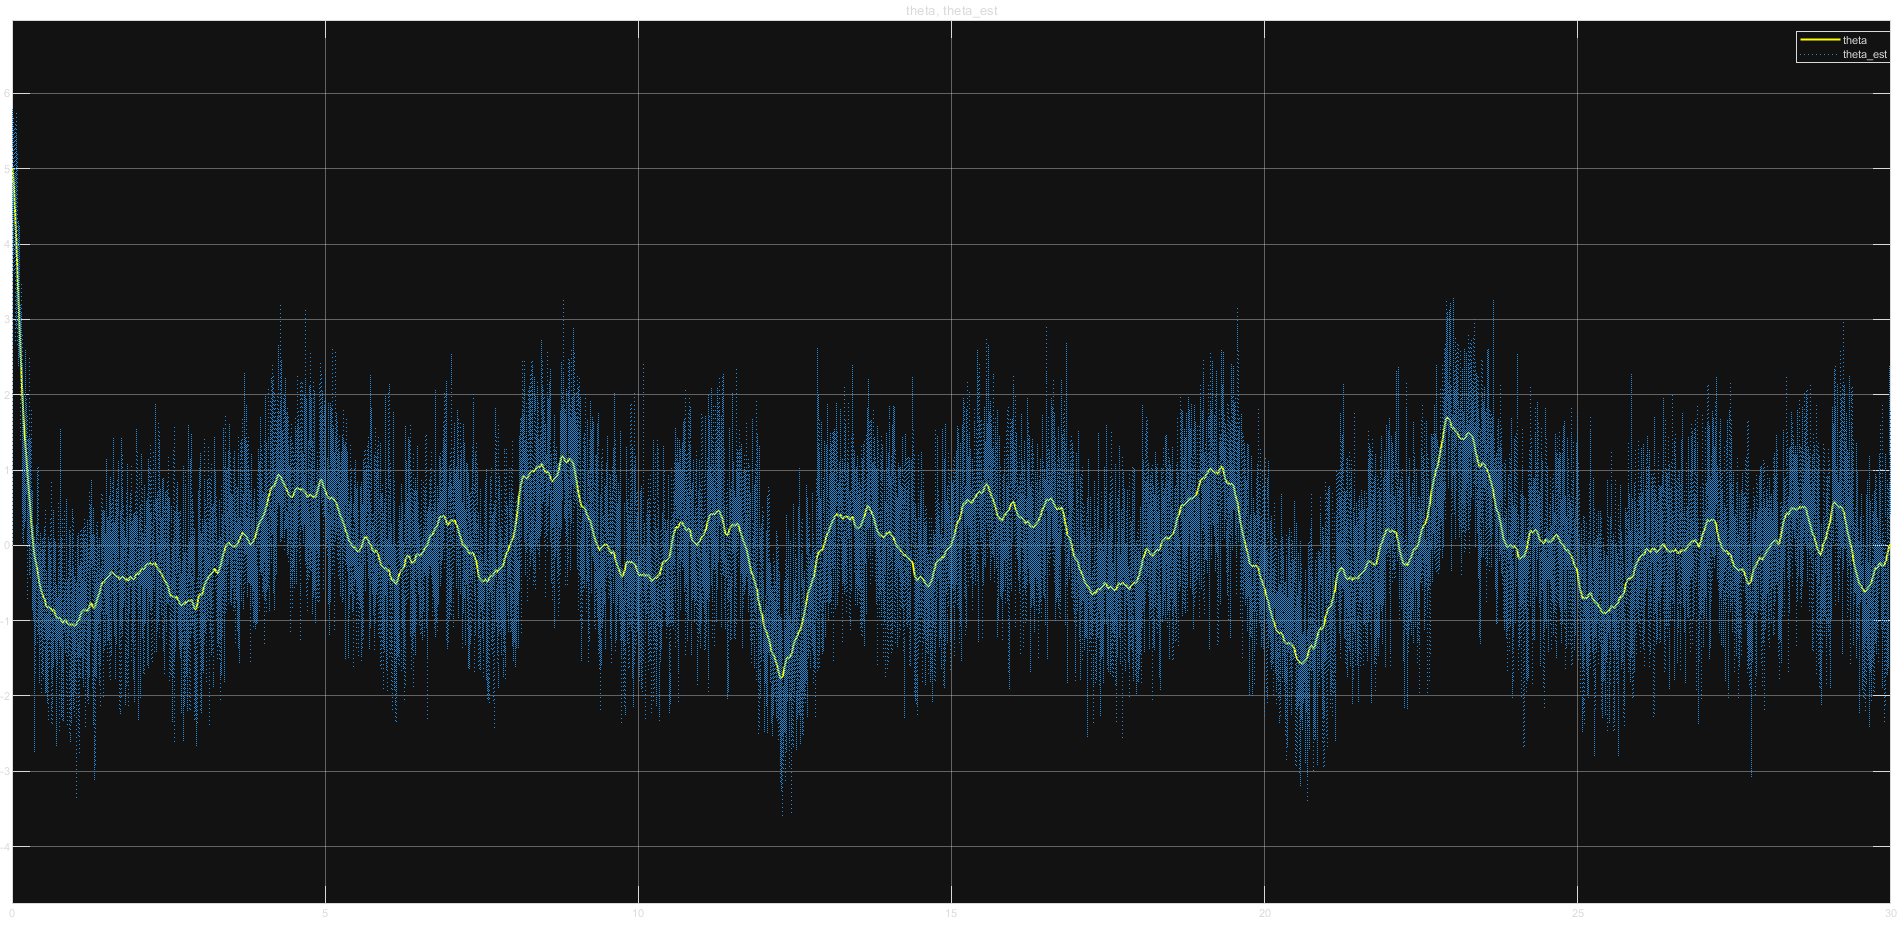
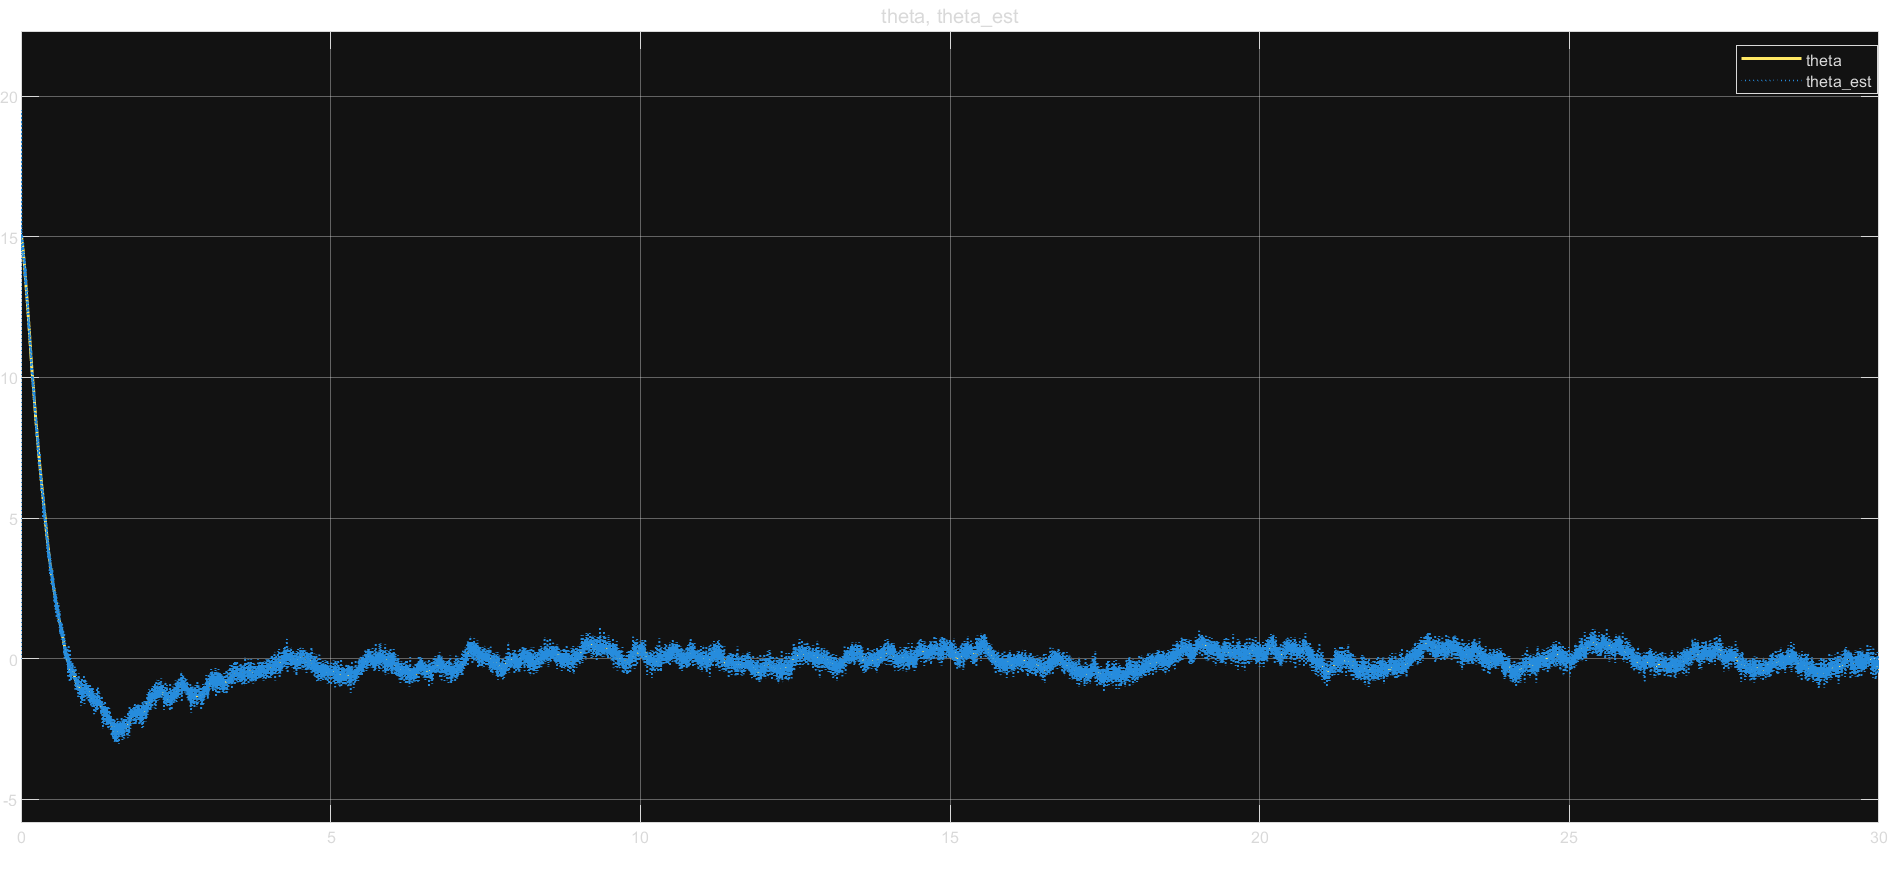
Adjust Kalman noise parameters and timestep
Increase simulation timestep from 0.0001s to 0.001s and update Kalman filter noise matrices in DisenControlKalman.m: set Q_kalman = diag([1e-2, 1000, 1e-1]) to force fast estimation of angular velocity and set R_kalman = diag([1e-5, 1e-3]) to lower measurement noise for the MPU6050. Also include updated Simulink model (Sim_ControladorLQR_Kalman.slx) and updated plot image (img/grafica_theta.png).

diff --git a/1_MIL/DisenControlKalman.m b/1_MIL/DisenControlKalman.m
@@ -67,7 +67,7 @@ fprintf('  Frecuencia dominante : %.1f rad/s\n', w_max_lc)
 fprintf('  h recomendado        : %.5f s  (%.0f Hz mínimo)\n', ...
         h_recomendado, 1/h_recomendado)
 
-h = 0.0001;   % [s] — ajustar si el warning se activa
+h = 0.001;   % [s] — ajustar si el warning se activa
 
 if h > h_recomendado
     warning(['h = %.4f s SUPERA h_recomendado = %.5f s.\n' ...
@@ -99,11 +99,14 @@ fprintf('Kd discreto: '); disp(Kd)
 mC_medido = [1, 0, 0;  % Sensor 1: IMU (theta)
              0, 0, 1]; % Sensor 2: Encoder (wr)
 
-% Aumentamos un poco la confianza en el modelo
-Q_kalman = diag([1e-4, 1e-4, 1e-3]); 
+% Q_kalman: Matriz de ruido del proceso (Diagonal: [theta, theta', wr])
+% Le metemos un ruido ASTRONÓMICO (1000) a theta' para forzar al filtro 
+% a estimar la velocidad rápidamente a partir del sensor.
+Q_kalman = diag([1e-2, 1000, 1e-1]); 
 
-% Reducimos un poco la desconfianza en los sensores
-R_kalman = diag([1e-3, 1e-2]);
+% R_kalman: Matriz de ruido de medida (Diagonal: [MPU6050, Encoder])
+% Le decimos que el MPU6050 es sagrado (1e-5) para que derive de ahí.
+R_kalman = diag([1e-5, 1e-3]);
 
 % 1. Calculamos la ganancia del filtro
 [Ld ~, ~] = dlqe(mG, eye(3), mC_medido, Q_kalman, R_kalman);